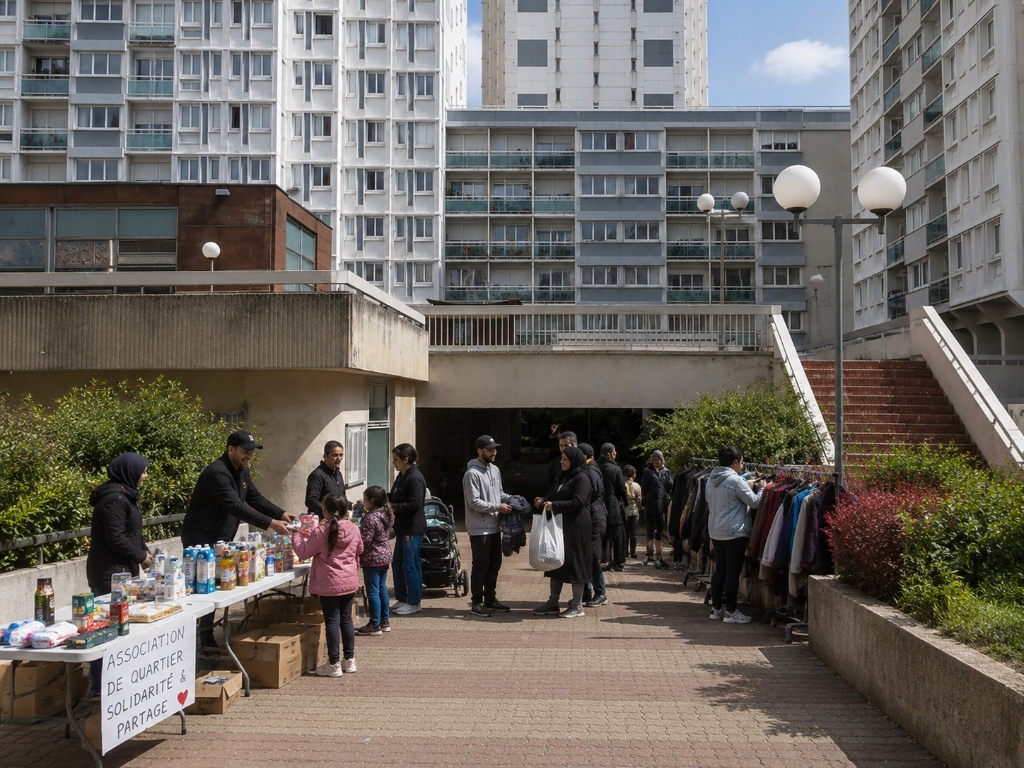
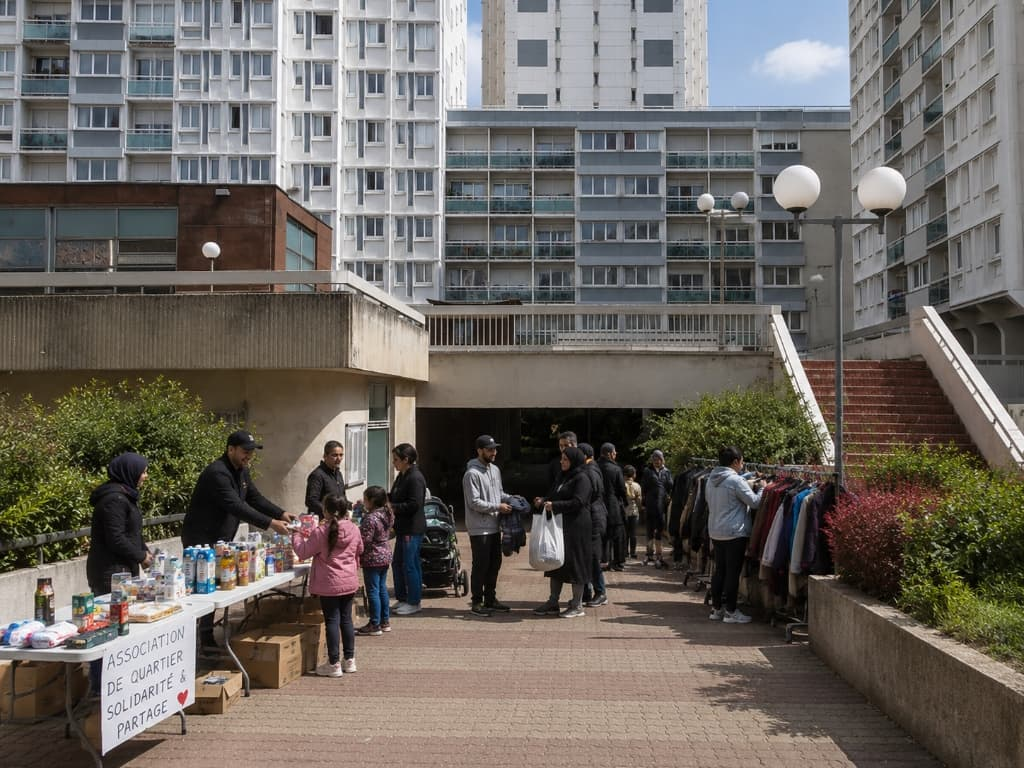
Améliore les performances mobiles (PageSpeed)
- Optimise et redimensionne les images: hero 847KB->149KB, galerie ~470KB->~115KB chacune, logo 53KB->12KB, icônes PWA allégées (poids images page d'accueil ~3.2Mo -> ~720Ko)
- Charge les polices Google de façon non bloquante (media=print/onload + noscript)
- Passe le script CookieYes en async (non bloquant au rendu)
- Ajoute fetchpriority=high sur l'image LCP (hero) + decoding async
- Ajoute width/height aux images pour éliminer les décalages de mise en page (CLS)
- Incrémente la version du cache service worker (v8 -> v9) pour servir les assets optimisés

diff --git a/index.html b/index.html
@@ -2,7 +2,7 @@
 <html lang="fr">
 <head>
     <!-- CookieYes CMP -->
-    <script id="cookieyes" type="text/javascript" src="https://cdn-cookieyes.com/client_data/717e3046768efe1db2b6e1a6/script.js"></script>
+    <script id="cookieyes" type="text/javascript" async src="https://cdn-cookieyes.com/client_data/717e3046768efe1db2b6e1a6/script.js"></script>
     <!-- Google tag (gtag.js) -->
     <script async src="https://www.googletagmanager.com/gtag/js?id=AW-18139121395"></script>
     <script>
@@ -18,7 +18,8 @@
     <title>Association Falguière | Solidarité Paris 15e</title>
     <link rel="preconnect" href="https://fonts.googleapis.com">
     <link rel="preconnect" href="https://fonts.gstatic.com" crossorigin>
-    <link href="https://fonts.googleapis.com/css2?family=Outfit:wght@300;400;600;800&family=Playfair+Display:ital,wght@0,600;1,600&display=swap" rel="stylesheet">
+    <link rel="stylesheet" href="https://fonts.googleapis.com/css2?family=Outfit:wght@300;400;600;800&family=Playfair+Display:ital,wght@0,600;1,600&display=swap" media="print" onload="this.media='all'">
+    <noscript><link rel="stylesheet" href="https://fonts.googleapis.com/css2?family=Outfit:wght@300;400;600;800&family=Playfair+Display:ital,wght@0,600;1,600&display=swap"></noscript>
     <link rel="icon" href="assets/favicon.svg" type="image/svg+xml">
     <link rel="manifest" href="manifest.json">
     <meta name="theme-color" content="#d97743">
@@ -26,7 +27,7 @@
     <link rel="apple-touch-startup-image" href="assets/background-photo.jpg">
     <meta name="apple-mobile-web-app-capable" content="yes">
     <meta name="apple-mobile-web-app-status-bar-style" content="default">
-    <link rel="preload" href="assets/background-photo.jpg" as="image">
+    <link rel="preload" href="assets/background-photo.jpg" as="image" fetchpriority="high">
 
     <link rel="stylesheet" href="styles.css">
 </head>
@@ -64,7 +65,7 @@
     <!-- Hero Section -->
     <header class="hero">
         <div class="hero-bg">
-            <img src="assets/background-photo.jpg" alt="Journée solidaire dans le quartier Falguière" data-cms="hero-img">
+            <img src="assets/background-photo.jpg" alt="Journée solidaire dans le quartier Falguière" data-cms="hero-img" width="1024" height="1024" fetchpriority="high" decoding="async">
             <div class="hero-overlay"></div>
         </div>
         <div class="hero-content">
@@ -183,7 +184,7 @@
                 <!-- Block 1 -->
                 <div class="mission-grid" style="align-items: center; margin-bottom: 4rem;">
                     <div class="mission-image fade-in-up">
-                        <img src="assets/galerie-1.jpg" alt="Quartier Falguière" style="width: 100%; border-radius: var(--radius-lg); box-shadow: var(--shadow-lg);" data-cms="galerie-1-img" loading="lazy">
+                        <img src="assets/galerie-1.jpg" alt="Quartier Falguière" style="width: 100%; height: auto; border-radius: var(--radius-lg); box-shadow: var(--shadow-lg);" data-cms="galerie-1-img" loading="lazy" decoding="async" width="1024" height="768">
                     </div>
                     <div class="mission-text fade-in-up delay-1">
                         <h3 data-cms="galerie-1-title">La Cité Maillol</h3>
@@ -198,14 +199,14 @@
                         <p data-cms="galerie-2-desc">Falguière fait partie des deux quartiers du 15ème arrondissement à être classés en Quartier Prioritaire de la Politique de la Ville (QPV) en 2024.</p>
                     </div>
                     <div class="mission-image fade-in-up order-1-mobile">
-                        <img src="assets/galerie-2.jpg" alt="Entraide et partage" style="width: 100%; border-radius: var(--radius-lg); box-shadow: var(--shadow-lg);" data-cms="galerie-2-img" loading="lazy">
+                        <img src="assets/galerie-2.jpg" alt="Entraide et partage" style="width: 100%; height: auto; border-radius: var(--radius-lg); box-shadow: var(--shadow-lg);" data-cms="galerie-2-img" loading="lazy" decoding="async" width="1024" height="768">
                     </div>
                 </div>
                 
                 <!-- Block 3 -->
                 <div class="mission-grid" style="align-items: center; margin-bottom: 4rem;">
                     <div class="mission-image fade-in-up">
-                        <img src="assets/galerie-3.jpg" alt="Activités pour tous" style="width: 100%; border-radius: var(--radius-lg); box-shadow: var(--shadow-lg);" data-cms="galerie-3-img" loading="lazy">
+                        <img src="assets/galerie-3.jpg" alt="Activités pour tous" style="width: 100%; height: auto; border-radius: var(--radius-lg); box-shadow: var(--shadow-lg);" data-cms="galerie-3-img" loading="lazy" decoding="async" width="1024" height="768">
                     </div>
                     <div class="mission-text fade-in-up delay-1">
                         <h3 data-cms="galerie-3-title">Lutte contre la précarité</h3>
@@ -220,14 +221,14 @@
                         <p data-cms="galerie-4-desc">La rue et le quartier doivent leur nom actuel au peintre et sculpteur Alexandre Falguière (1831-1900). Nous perpétuons cette histoire à travers nos actions sur le terrain.</p>
                     </div>
                     <div class="mission-image fade-in-up order-1-mobile">
-                        <img src="assets/galerie-4.jpg" alt="Solidarité en action" style="width: 100%; border-radius: var(--radius-lg); box-shadow: var(--shadow-lg);" data-cms="galerie-4-img" loading="lazy">
+                        <img src="assets/galerie-4.jpg" alt="Solidarité en action" style="width: 100%; height: auto; border-radius: var(--radius-lg); box-shadow: var(--shadow-lg);" data-cms="galerie-4-img" loading="lazy" decoding="async" width="1024" height="768">
                     </div>
                 </div>
                 
                 <!-- Block 5 -->
                 <div class="mission-grid" style="align-items: center;">
                     <div class="mission-image fade-in-up">
-                        <img src="assets/galerie-5.jpg" alt="Sourires du quartier" style="width: 100%; border-radius: var(--radius-lg); box-shadow: var(--shadow-lg);" data-cms="galerie-5-img" loading="lazy">
+                        <img src="assets/galerie-5.jpg" alt="Sourires du quartier" style="width: 100%; height: auto; border-radius: var(--radius-lg); box-shadow: var(--shadow-lg);" data-cms="galerie-5-img" loading="lazy" decoding="async" width="1024" height="768">
                     </div>
                     <div class="mission-text fade-in-up delay-1">
                         <h3 data-cms="galerie-5-title">Notre engagement</h3>
@@ -307,7 +308,7 @@
             <div class="footer-logo">
                 <span class="logo-accent">FAL</span>GUIÈRE
             </div>
-            <img src="assets/logo.png" alt="Logo Association Falguière" style="max-width: 150px; margin: 1.5rem auto; display: block; opacity: 0.9;" loading="lazy">
+            <img src="assets/logo.png" alt="Logo Association Falguière" style="max-width: 150px; height: auto; margin: 1.5rem auto; display: block; opacity: 0.9;" loading="lazy" decoding="async" width="320" height="348">
             <p class="footer-text" data-cms="footer-desc">L'association pour le développement et la solidarité du quartier Falguière à Paris 15e.</p>
             <p style="font-size: 0.9rem; opacity: 0.8; margin-top: 0.5rem; font-weight: bold;">Association Loi 1901 à but non lucratif - N° RNA : W751284066</p>
 

diff --git a/don.html b/don.html
@@ -2,7 +2,7 @@
 <html lang="fr">
 <head>
     <!-- CookieYes CMP -->
-    <script id="cookieyes" type="text/javascript" src="https://cdn-cookieyes.com/client_data/717e3046768efe1db2b6e1a6/script.js"></script>
+    <script id="cookieyes" type="text/javascript" async src="https://cdn-cookieyes.com/client_data/717e3046768efe1db2b6e1a6/script.js"></script>
     <!-- Google tag (gtag.js) -->
     <script async src="https://www.googletagmanager.com/gtag/js?id=AW-18139121395"></script>
     <script>
@@ -18,7 +18,8 @@
     <title>Soutenir l'Association | Association Falguière</title>
     <link rel="preconnect" href="https://fonts.googleapis.com">
     <link rel="preconnect" href="https://fonts.gstatic.com" crossorigin>
-    <link href="https://fonts.googleapis.com/css2?family=Outfit:wght@300;400;600;800&family=Playfair+Display:ital,wght@0,600;1,600&display=swap" rel="stylesheet">
+    <link rel="stylesheet" href="https://fonts.googleapis.com/css2?family=Outfit:wght@300;400;600;800&family=Playfair+Display:ital,wght@0,600;1,600&display=swap" media="print" onload="this.media='all'">
+    <noscript><link rel="stylesheet" href="https://fonts.googleapis.com/css2?family=Outfit:wght@300;400;600;800&family=Playfair+Display:ital,wght@0,600;1,600&display=swap"></noscript>
     <link rel="icon" href="assets/favicon.svg" type="image/svg+xml">
     <link rel="stylesheet" href="styles.css">
     <script src="https://js.stripe.com/v3/"></script>
@@ -271,7 +272,7 @@
             <div class="footer-logo">
                 <span class="logo-accent">FAL</span>GUIÈRE
             </div>
-            <img src="assets/logo.png" alt="Logo Association Falguière" style="max-width: 150px; margin: 1.5rem auto; display: block; opacity: 0.9;" loading="lazy">
+            <img src="assets/logo.png" alt="Logo Association Falguière" style="max-width: 150px; height: auto; margin: 1.5rem auto; display: block; opacity: 0.9;" loading="lazy" decoding="async" width="320" height="348">
             <p class="footer-text" data-cms="footer-desc">L'association pour le développement et la solidarité du quartier Falguière à Paris 15e.</p>
             <p style="font-size: 0.9rem; opacity: 0.8; margin-top: 0.5rem; font-weight: bold;">Association Loi 1901 à but non lucratif - N° RNA : W751284066</p>
 

diff --git a/politique-confidentialite.html b/politique-confidentialite.html
@@ -2,7 +2,7 @@
 <html lang="fr">
 <head>
     <!-- CookieYes CMP -->
-    <script id="cookieyes" type="text/javascript" src="https://cdn-cookieyes.com/client_data/717e3046768efe1db2b6e1a6/script.js"></script>
+    <script id="cookieyes" type="text/javascript" async src="https://cdn-cookieyes.com/client_data/717e3046768efe1db2b6e1a6/script.js"></script>
     <!-- Google tag (gtag.js) -->
     <script async src="https://www.googletagmanager.com/gtag/js?id=AW-18139121395"></script>
     <script>
@@ -18,7 +18,8 @@
     <title>Règles de Confidentialité | Association Falguière</title>
     <link rel="preconnect" href="https://fonts.googleapis.com">
     <link rel="preconnect" href="https://fonts.gstatic.com" crossorigin>
-    <link href="https://fonts.googleapis.com/css2?family=Outfit:wght@300;400;600;800&family=Playfair+Display:ital,wght@0,600;1,600&display=swap" rel="stylesheet">
+    <link rel="stylesheet" href="https://fonts.googleapis.com/css2?family=Outfit:wght@300;400;600;800&family=Playfair+Display:ital,wght@0,600;1,600&display=swap" media="print" onload="this.media='all'">
+    <noscript><link rel="stylesheet" href="https://fonts.googleapis.com/css2?family=Outfit:wght@300;400;600;800&family=Playfair+Display:ital,wght@0,600;1,600&display=swap"></noscript>
     <link rel="icon" href="assets/favicon.svg" type="image/svg+xml">
     <link rel="stylesheet" href="styles.css">
     <style>
@@ -131,7 +132,7 @@
             <div class="footer-logo">
                 <span class="logo-accent">FAL</span>GUIÈRE
             </div>
-            <img src="assets/logo.png" alt="Logo Association Falguière" style="max-width: 150px; margin: 1.5rem auto; display: block; opacity: 0.9;" loading="lazy">
+            <img src="assets/logo.png" alt="Logo Association Falguière" style="max-width: 150px; height: auto; margin: 1.5rem auto; display: block; opacity: 0.9;" loading="lazy" decoding="async" width="320" height="348">
             <p class="footer-text" data-cms="footer-desc">L'association pour le développement et la solidarité du quartier Falguière à Paris 15e.</p>
             <p style="font-size: 0.9rem; opacity: 0.8; margin-top: 0.5rem; font-weight: bold;">Association Loi 1901 à but non lucratif - N° RNA : W751284066</p>
 

diff --git a/benevole.html b/benevole.html
@@ -2,7 +2,7 @@
 <html lang="fr">
 <head>
     <!-- CookieYes CMP -->
-    <script id="cookieyes" type="text/javascript" src="https://cdn-cookieyes.com/client_data/717e3046768efe1db2b6e1a6/script.js"></script>
+    <script id="cookieyes" type="text/javascript" async src="https://cdn-cookieyes.com/client_data/717e3046768efe1db2b6e1a6/script.js"></script>
     <!-- Google tag (gtag.js) -->
     <script async src="https://www.googletagmanager.com/gtag/js?id=AW-18139121395"></script>
     <script>
@@ -18,7 +18,8 @@
     <title>Devenir Bénévole | Association Falguière</title>
     <link rel="preconnect" href="https://fonts.googleapis.com">
     <link rel="preconnect" href="https://fonts.gstatic.com" crossorigin>
-    <link href="https://fonts.googleapis.com/css2?family=Outfit:wght@300;400;600;800&family=Playfair+Display:ital,wght@0,600;1,600&display=swap" rel="stylesheet">
+    <link rel="stylesheet" href="https://fonts.googleapis.com/css2?family=Outfit:wght@300;400;600;800&family=Playfair+Display:ital,wght@0,600;1,600&display=swap" media="print" onload="this.media='all'">
+    <noscript><link rel="stylesheet" href="https://fonts.googleapis.com/css2?family=Outfit:wght@300;400;600;800&family=Playfair+Display:ital,wght@0,600;1,600&display=swap"></noscript>
     <link rel="icon" href="assets/favicon.svg" type="image/svg+xml">
     <link rel="stylesheet" href="styles.css">
     <style>
@@ -197,7 +198,7 @@
             <div class="footer-logo">
                 <span class="logo-accent">FAL</span>GUIÈRE
             </div>
-            <img src="assets/logo.png" alt="Logo Association Falguière" style="max-width: 150px; margin: 1.5rem auto; display: block; opacity: 0.9;" loading="lazy">
+            <img src="assets/logo.png" alt="Logo Association Falguière" style="max-width: 150px; height: auto; margin: 1.5rem auto; display: block; opacity: 0.9;" loading="lazy" decoding="async" width="320" height="348">
             <p class="footer-text" data-cms="footer-desc">L'association pour le développement et la solidarité du quartier Falguière à Paris 15e.</p>
             <p style="font-size: 0.9rem; opacity: 0.8; margin-top: 0.5rem; font-weight: bold;">Association Loi 1901 à but non lucratif - N° RNA : W751284066</p>
 

diff --git a/mentions-legales.html b/mentions-legales.html
@@ -2,7 +2,7 @@
 <html lang="fr">
 <head>
     <!-- CookieYes CMP -->
-    <script id="cookieyes" type="text/javascript" src="https://cdn-cookieyes.com/client_data/717e3046768efe1db2b6e1a6/script.js"></script>
+    <script id="cookieyes" type="text/javascript" async src="https://cdn-cookieyes.com/client_data/717e3046768efe1db2b6e1a6/script.js"></script>
     <!-- Google tag (gtag.js) -->
     <script async src="https://www.googletagmanager.com/gtag/js?id=AW-18139121395"></script>
     <script>
@@ -18,7 +18,8 @@
     <title>Mentions Légales | Association Falguière</title>
     <link rel="preconnect" href="https://fonts.googleapis.com">
     <link rel="preconnect" href="https://fonts.gstatic.com" crossorigin>
-    <link href="https://fonts.googleapis.com/css2?family=Outfit:wght@300;400;600;800&family=Playfair+Display:ital,wght@0,600;1,600&display=swap" rel="stylesheet">
+    <link rel="stylesheet" href="https://fonts.googleapis.com/css2?family=Outfit:wght@300;400;600;800&family=Playfair+Display:ital,wght@0,600;1,600&display=swap" media="print" onload="this.media='all'">
+    <noscript><link rel="stylesheet" href="https://fonts.googleapis.com/css2?family=Outfit:wght@300;400;600;800&family=Playfair+Display:ital,wght@0,600;1,600&display=swap"></noscript>
     <link rel="icon" href="assets/favicon.svg" type="image/svg+xml">
     <link rel="stylesheet" href="styles.css">
     <style>
@@ -125,7 +126,7 @@
             <div class="footer-logo">
                 <span class="logo-accent">FAL</span>GUIÈRE
             </div>
-            <img src="assets/logo.png" alt="Logo Association Falguière" style="max-width: 150px; margin: 1.5rem auto; display: block; opacity: 0.9;" loading="lazy">
+            <img src="assets/logo.png" alt="Logo Association Falguière" style="max-width: 150px; height: auto; margin: 1.5rem auto; display: block; opacity: 0.9;" loading="lazy" decoding="async" width="320" height="348">
             <p class="footer-text" data-cms="footer-desc">L'association pour le développement et la solidarité du quartier Falguière à Paris 15e.</p>
             <p style="font-size: 0.9rem; opacity: 0.8; margin-top: 0.5rem; font-weight: bold;">Association Loi 1901 à but non lucratif - N° RNA : W751284066</p>
 

diff --git a/projets.html b/projets.html
@@ -2,7 +2,7 @@
 <html lang="fr">
 <head>
     <!-- CookieYes CMP -->
-    <script id="cookieyes" type="text/javascript" src="https://cdn-cookieyes.com/client_data/717e3046768efe1db2b6e1a6/script.js"></script>
+    <script id="cookieyes" type="text/javascript" async src="https://cdn-cookieyes.com/client_data/717e3046768efe1db2b6e1a6/script.js"></script>
     <!-- Google tag (gtag.js) -->
     <script async src="https://www.googletagmanager.com/gtag/js?id=AW-18139121395"></script>
     <script>
@@ -18,7 +18,8 @@
     <title>Idées de Projets | Association Falguière</title>
     <link rel="preconnect" href="https://fonts.googleapis.com">
     <link rel="preconnect" href="https://fonts.gstatic.com" crossorigin>
-    <link href="https://fonts.googleapis.com/css2?family=Outfit:wght@300;400;600;800&family=Playfair+Display:ital,wght@0,600;1,600&display=swap" rel="stylesheet">
+    <link rel="stylesheet" href="https://fonts.googleapis.com/css2?family=Outfit:wght@300;400;600;800&family=Playfair+Display:ital,wght@0,600;1,600&display=swap" media="print" onload="this.media='all'">
+    <noscript><link rel="stylesheet" href="https://fonts.googleapis.com/css2?family=Outfit:wght@300;400;600;800&family=Playfair+Display:ital,wght@0,600;1,600&display=swap"></noscript>
     <link rel="icon" href="assets/favicon.svg" type="image/svg+xml">
     <link rel="stylesheet" href="styles.css">
     <style>
@@ -270,7 +271,7 @@
             <div class="footer-logo">
                 <span class="logo-accent">FAL</span>GUIÈRE
             </div>
-            <img src="assets/logo.png" alt="Logo Association Falguière" style="max-width: 150px; margin: 1.5rem auto; display: block; opacity: 0.9;" loading="lazy">
+            <img src="assets/logo.png" alt="Logo Association Falguière" style="max-width: 150px; height: auto; margin: 1.5rem auto; display: block; opacity: 0.9;" loading="lazy" decoding="async" width="320" height="348">
             <p class="footer-text" data-cms="footer-desc">L'association pour le développement et la solidarité du quartier Falguière à Paris 15e.</p>
             <p style="font-size: 0.9rem; opacity: 0.8; margin-top: 0.5rem; font-weight: bold;">Association Loi 1901 à but non lucratif - N° RNA : W751284066</p>
 

diff --git a/agenda.html b/agenda.html
@@ -2,7 +2,7 @@
 <html lang="fr">
 <head>
     <!-- CookieYes CMP -->
-    <script id="cookieyes" type="text/javascript" src="https://cdn-cookieyes.com/client_data/717e3046768efe1db2b6e1a6/script.js"></script>
+    <script id="cookieyes" type="text/javascript" async src="https://cdn-cookieyes.com/client_data/717e3046768efe1db2b6e1a6/script.js"></script>
     <!-- Google tag (gtag.js) -->
     <script async src="https://www.googletagmanager.com/gtag/js?id=AW-18139121395"></script>
     <script>
@@ -18,7 +18,8 @@
     <title>Agenda Bénévoles | Association Falguière</title>
     <link rel="preconnect" href="https://fonts.googleapis.com">
     <link rel="preconnect" href="https://fonts.gstatic.com" crossorigin>
-    <link href="https://fonts.googleapis.com/css2?family=Outfit:wght@300;400;600;800&family=Playfair+Display:ital,wght@0,600;1,600&display=swap" rel="stylesheet">
+    <link rel="stylesheet" href="https://fonts.googleapis.com/css2?family=Outfit:wght@300;400;600;800&family=Playfair+Display:ital,wght@0,600;1,600&display=swap" media="print" onload="this.media='all'">
+    <noscript><link rel="stylesheet" href="https://fonts.googleapis.com/css2?family=Outfit:wght@300;400;600;800&family=Playfair+Display:ital,wght@0,600;1,600&display=swap"></noscript>
     <link rel="icon" href="assets/favicon.svg" type="image/svg+xml">
     <link rel="stylesheet" href="styles.css">
     
@@ -204,7 +205,7 @@
             <div class="footer-logo">
                 <span class="logo-accent">FAL</span>GUIÈRE
             </div>
-            <img src="assets/logo.png" alt="Logo Association Falguière" style="max-width: 150px; margin: 1.5rem auto; display: block; opacity: 0.9;" loading="lazy">
+            <img src="assets/logo.png" alt="Logo Association Falguière" style="max-width: 150px; height: auto; margin: 1.5rem auto; display: block; opacity: 0.9;" loading="lazy" decoding="async" width="320" height="348">
             <p class="footer-text" data-cms="footer-desc">L'association pour le développement et la solidarité du quartier Falguière à Paris 15e.</p>
             <p style="font-size: 0.9rem; opacity: 0.8; margin-top: 0.5rem; font-weight: bold;">Association Loi 1901 à but non lucratif - N° RNA : W751284066</p>
 

diff --git a/footer.html b/footer.html
@@ -3,7 +3,7 @@
         <div class="footer-logo">
             <span class="logo-accent">FAL</span>GUIÈRE
         </div>
-        <img src="assets/logo.png" alt="Logo Association Falguière" style="max-width: 150px; margin: 1.5rem auto; display: block; opacity: 0.9;">
+        <img src="assets/logo.png" alt="Logo Association Falguière" style="max-width: 150px; height: auto; margin: 1.5rem auto; display: block; opacity: 0.9;" loading="lazy" decoding="async" width="320" height="348">
         <p class="footer-text" data-cms="footer-desc">L'association pour le développement et la solidarité du quartier Falguière à Paris 15e.</p>
 
         <div class="footer-bottom" style="margin-top: 2rem;">

diff --git a/sw.js b/sw.js
@@ -1,4 +1,4 @@
-const CACHE_NAME = 'falguiere-cache-v8';
+const CACHE_NAME = 'falguiere-cache-v9';
 const urlsToCache = [
   '/',
   '/index.html',
